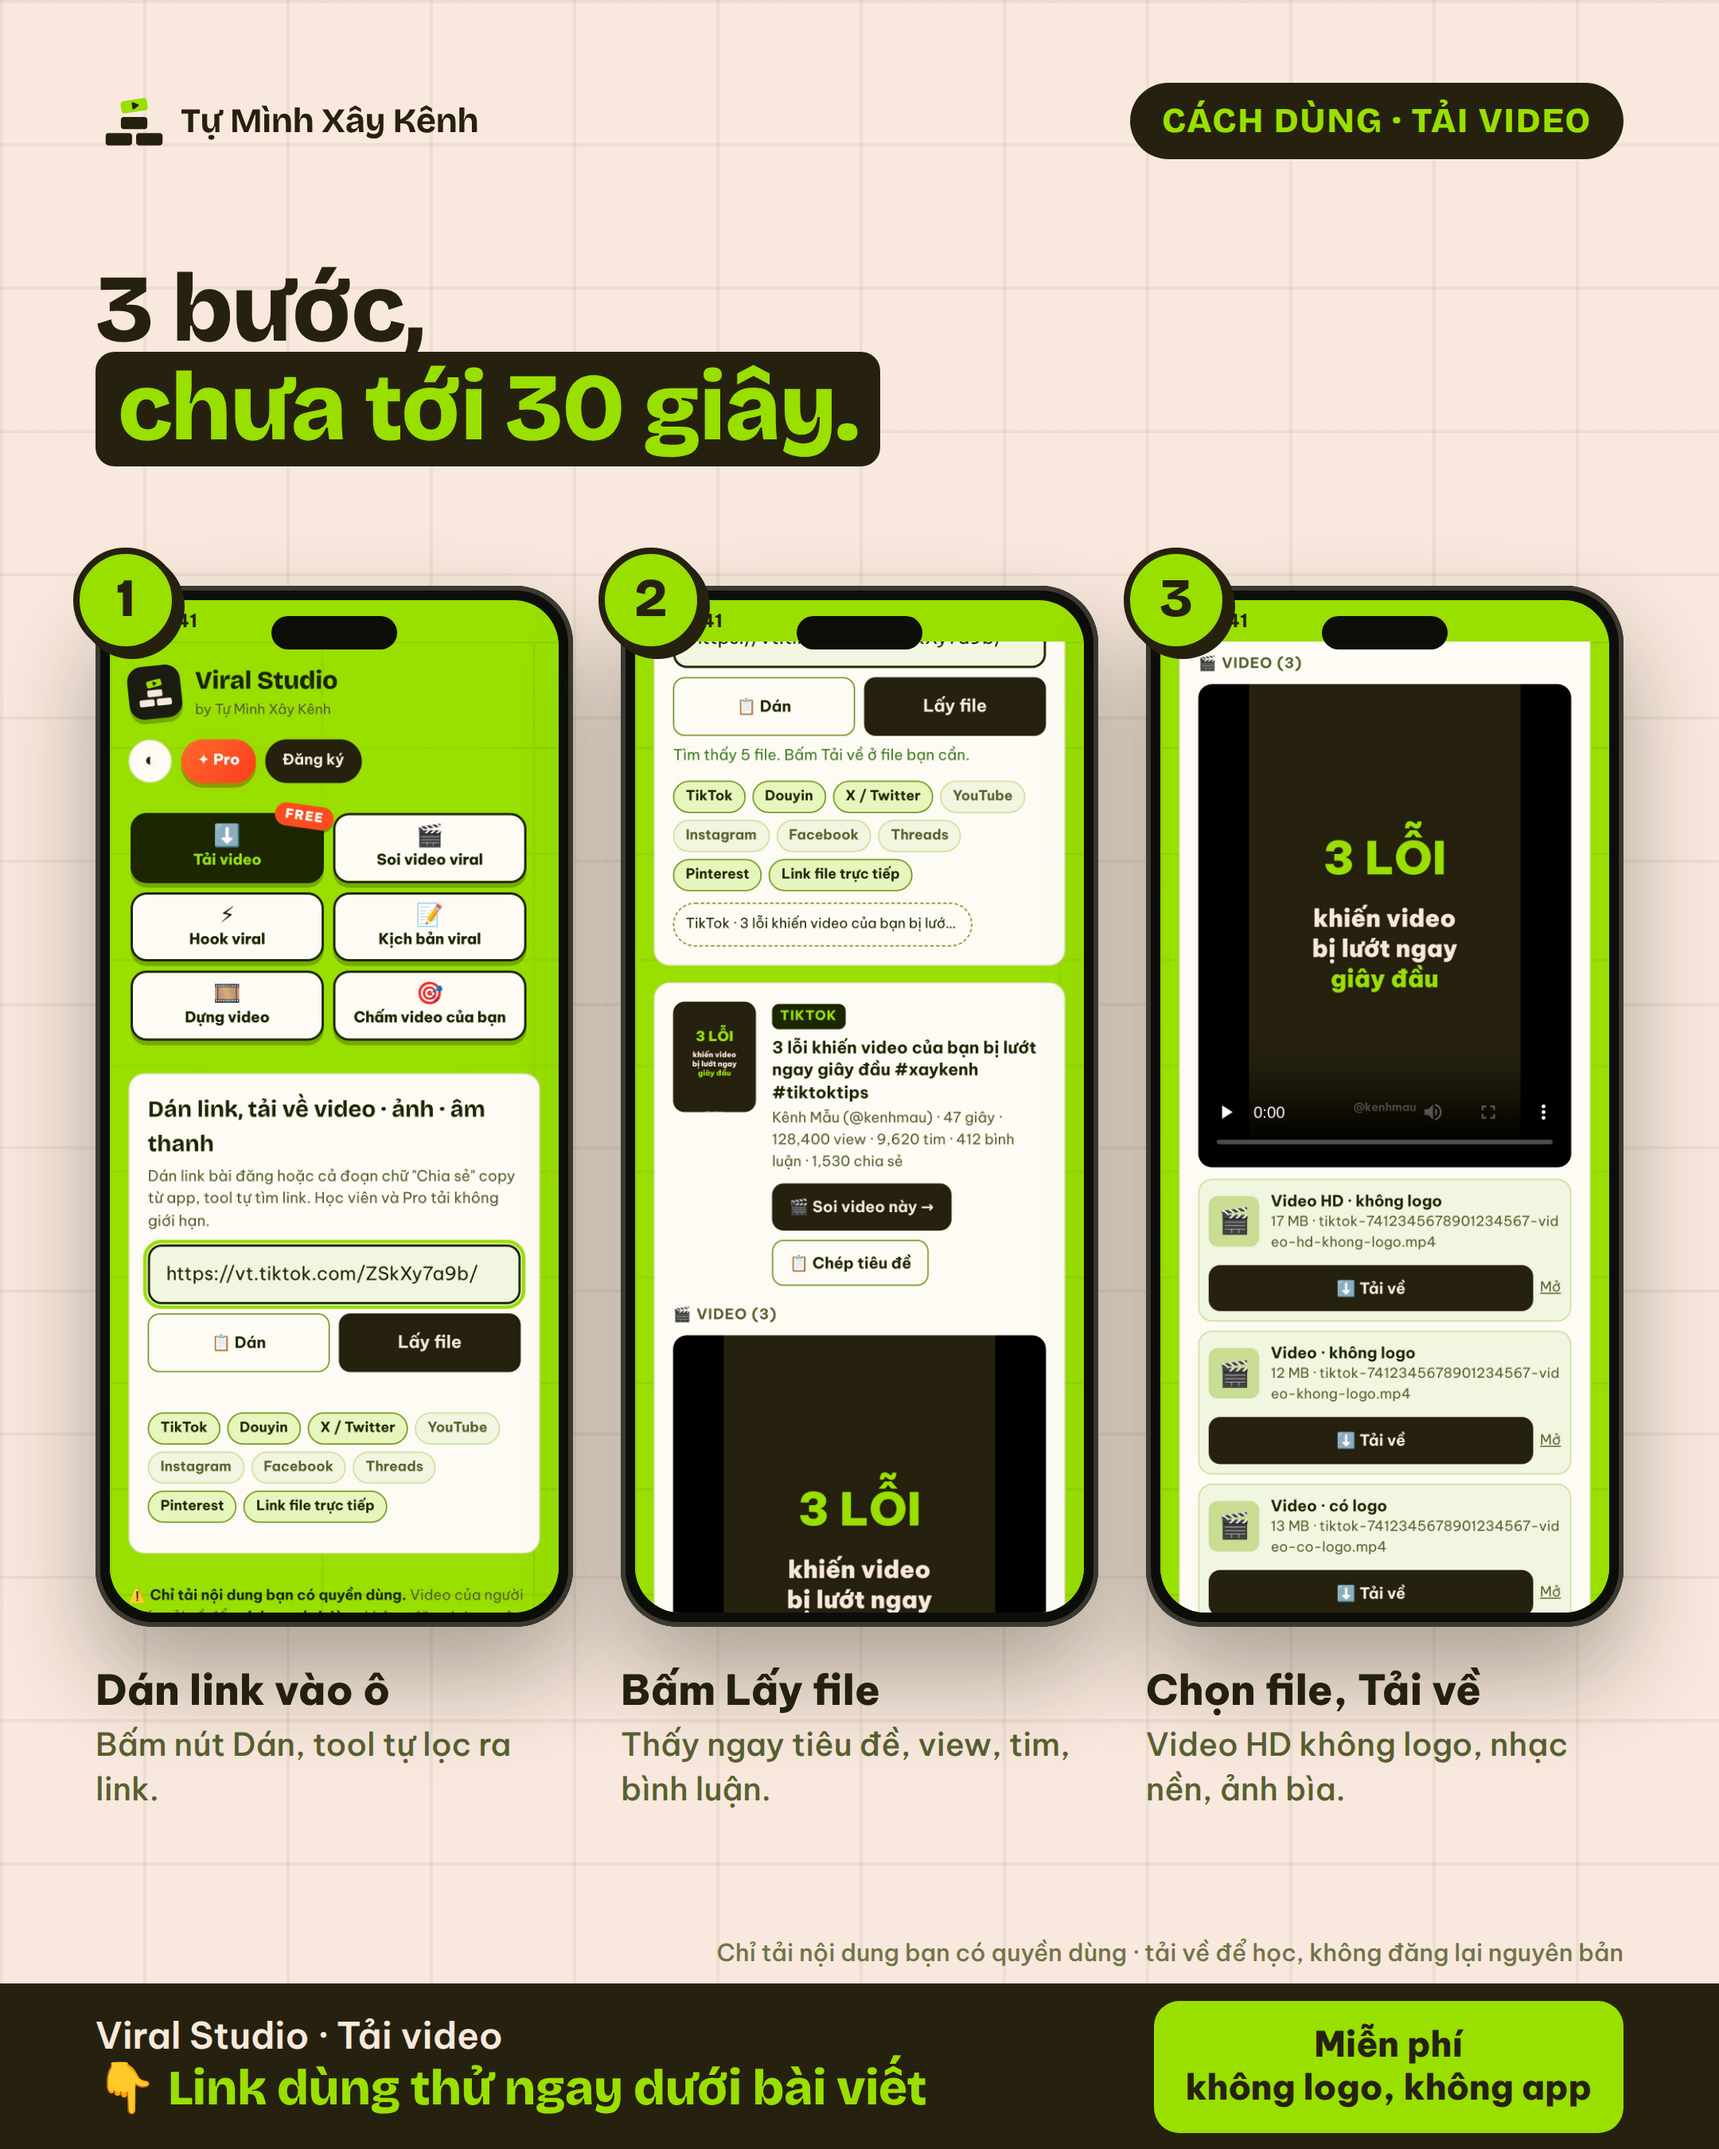
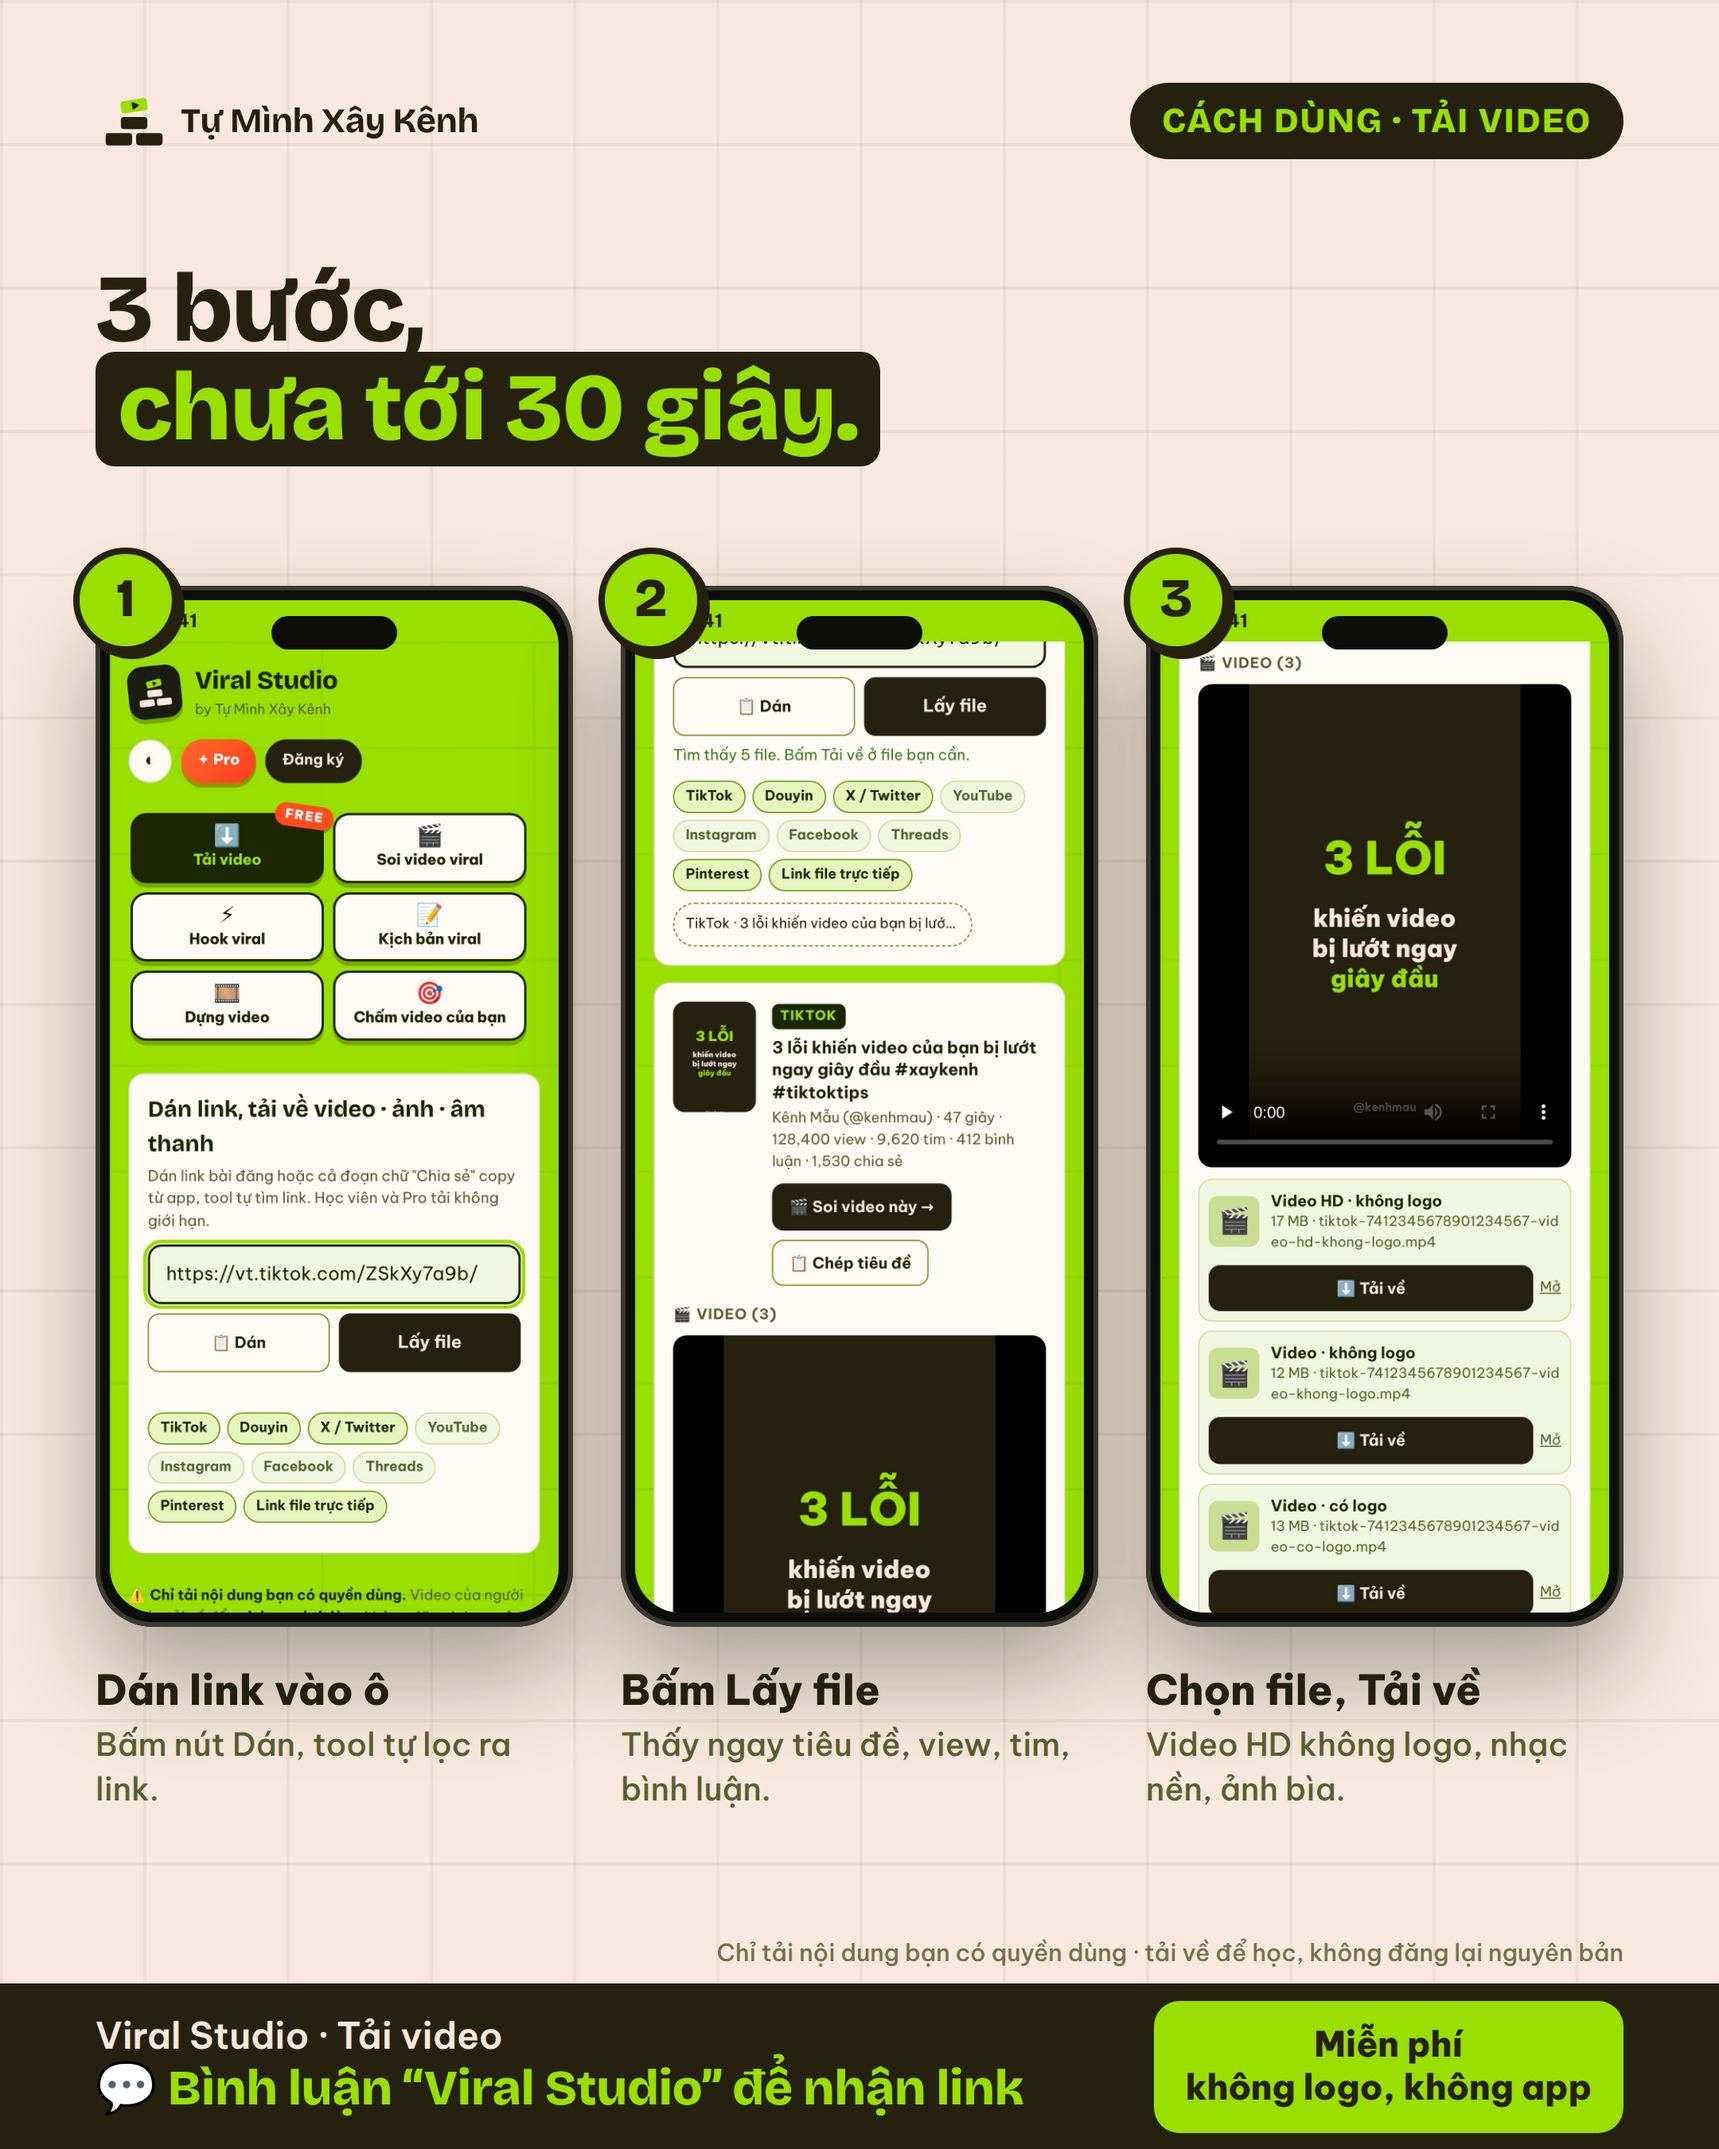
Poster Facebook: caption giọng nói chuyện cho Facebook và Threads, khều bình luận "Viral Studio" để nhận link
Chân 13 poster đổi thành lời mời bình luận, thêm mẫu trả lời bình luận.

Claude-Session: https://claude.ai/code/session_01DLoQkHnYKA1ATrTvxbMQPm

Changed region(s): [[0.062, 0.9333, 0.5894, 0.9956]]

diff --git a/poster-fb/poster.html b/poster-fb/poster.html
@@ -129,7 +129,7 @@
     <div class="o"><i>MỚI</i><div class="anh" style="background-image:url(anh/cv-2.jpg)"></div><div class="chu"><h3>🎯 Chấm video</h3><p>AI xem trọn video bạn làm, chỉ đúng giây đang hỏng.</p></div></div>
   </div>
   <div class="ghichu">Ảnh chụp giao diện thật · dữ liệu minh hoạ</div>
-  <div class="chan"><div class="link">Viral Studio · 6 tool làm video viral<b>👇 Link dùng thử ngay dưới bài viết</b></div><div class="hv">Dùng thử miễn phí<br>không cần cài app</div></div>
+  <div class="chan"><div class="link">Viral Studio · 6 tool làm video viral<b>💬 Bình luận “Viral Studio” để nhận link</b></div><div class="hv">Dùng thử miễn phí<br>không cần cài app</div></div>
 </section>
 
 <!-- ═══════════ 01 · TẢI VIDEO ═══════════ -->
@@ -148,7 +148,7 @@
   </ol>
   <div class="zoom" style="--src:url(anh/tai-3.jpg);--x:30;--y:465;--cw:330;--ch:125;--k:1.5;right:66px;bottom:136px"><em>Không logo</em></div>
   <div class="ghichu">Ảnh chụp giao diện thật · dữ liệu minh hoạ</div>
-  <div class="chan"><div class="link">Viral Studio · Tải video<b>👇 Link dùng thử ngay dưới bài viết</b></div><div class="hv">Miễn phí<br>không logo, không app</div></div>
+  <div class="chan"><div class="link">Viral Studio · Tải video<b>💬 Bình luận “Viral Studio” để nhận link</b></div><div class="hv">Miễn phí<br>không logo, không app</div></div>
 </section>
 
 <section class="poster giay" id="01b-tai-video-cach-dung">
@@ -160,7 +160,7 @@
     <div class="cot"><span class="soto">3</span><div class="dt"><div class="man"><img src="anh/tai-3.jpg" alt=""></div></div><h4>Chọn file, Tải về</h4><p>Video HD không logo, nhạc nền, ảnh bìa.</p></div>
   </div>
   <div class="ghichu" style="top:auto;bottom:116px">Chỉ tải nội dung bạn có quyền dùng · tải về để học, không đăng lại nguyên bản</div>
-  <div class="chan"><div class="link">Viral Studio · Tải video<b>👇 Link dùng thử ngay dưới bài viết</b></div><div class="hv">Miễn phí<br>không logo, không app</div></div>
+  <div class="chan"><div class="link">Viral Studio · Tải video<b>💬 Bình luận “Viral Studio” để nhận link</b></div><div class="hv">Miễn phí<br>không logo, không app</div></div>
 </section>
 
 <!-- ═══════════ 02 · SOI VIDEO VIRAL ═══════════ -->
@@ -179,7 +179,7 @@
   </ol>
   <div class="zoom" style="--src:url(anh/soi-cua3.jpg);--x:0;--y:90;--cw:390;--ch:140;--k:1.28;right:66px;bottom:136px"><em>Khuôn để mượn</em></div>
   <div class="ghichu">Ảnh chụp giao diện thật · dữ liệu minh hoạ</div>
-  <div class="chan"><div class="link">Viral Studio · Soi video viral<b>👇 Link dùng thử ngay dưới bài viết</b></div><div class="hv">Dùng thử AI<br>miễn phí</div></div>
+  <div class="chan"><div class="link">Viral Studio · Soi video viral<b>💬 Bình luận “Viral Studio” để nhận link</b></div><div class="hv">Dùng thử AI<br>miễn phí</div></div>
 </section>
 
 <section class="poster giay" id="02b-soi-video-cach-dung">
@@ -190,7 +190,7 @@
     <div class="cot"><span class="soto">2</span><div class="dt"><div class="man"><img src="anh/soi-2.jpg" alt=""></div></div><h4>Đọc phần tóm tắt</h4><p>Ngách, dạng video, tệp người xem, lời thoại theo giây.</p></div>
     <div class="cot"><span class="soto">3</span><div class="dt"><div class="man"><img src="anh/soi-3.jpg" alt=""></div></div><h4>Mượn khuôn 3 cửa</h4><p>Kèm hook và lời thoại mẫu cho kênh bạn.</p></div>
   </div>
-  <div class="chan"><div class="link">Viral Studio · Soi video viral<b>👇 Link dùng thử ngay dưới bài viết</b></div><div class="hv">Dùng thử AI<br>miễn phí</div></div>
+  <div class="chan"><div class="link">Viral Studio · Soi video viral<b>💬 Bình luận “Viral Studio” để nhận link</b></div><div class="hv">Dùng thử AI<br>miễn phí</div></div>
 </section>
 
 <!-- ═══════════ 03 · HOOK VIRAL ═══════════ -->
@@ -209,7 +209,7 @@
   </ol>
   <div class="zoom" style="--src:url(anh/hook-2.jpg);--x:20;--y:665;--cw:355;--ch:148;--k:1.4;right:66px;bottom:136px"><em>Kéo vào CapCut</em></div>
   <div class="ghichu">Ảnh chụp giao diện thật · dữ liệu minh hoạ</div>
-  <div class="chan"><div class="link">Viral Studio · Hook viral<b>👇 Link dùng thử ngay dưới bài viết</b></div><div class="hv">Dùng thử AI<br>miễn phí</div></div>
+  <div class="chan"><div class="link">Viral Studio · Hook viral<b>💬 Bình luận “Viral Studio” để nhận link</b></div><div class="hv">Dùng thử AI<br>miễn phí</div></div>
 </section>
 
 <section class="poster giay" id="03b-hook-viral-cach-dung">
@@ -220,7 +220,7 @@
     <div class="cot"><span class="soto">2</span><div class="dt"><div class="man"><img src="anh/hook-3.jpg" alt=""></div></div><h4>Bấm Phân tích</h4><p>Điểm hook gốc và 5 bản viết lại. Bấm Dùng để thay.</p></div>
     <div class="cot"><span class="soto">3</span><div class="dt"><div class="man"><img src="anh/hook-2.jpg" alt=""></div></div><h4>Chỉnh chữ, xuất PNG</h4><p>Kéo chữ, đổi bố cục, nhấn màu từ khoá.</p></div>
   </div>
-  <div class="chan"><div class="link">Viral Studio · Hook viral<b>👇 Link dùng thử ngay dưới bài viết</b></div><div class="hv">Dùng thử AI<br>miễn phí</div></div>
+  <div class="chan"><div class="link">Viral Studio · Hook viral<b>💬 Bình luận “Viral Studio” để nhận link</b></div><div class="hv">Dùng thử AI<br>miễn phí</div></div>
 </section>
 
 <!-- ═══════════ 04 · KỊCH BẢN VIRAL ═══════════ -->
@@ -239,7 +239,7 @@
   </ol>
   <div class="zoom" style="--src:url(anh/kb-2.jpg);--x:15;--y:460;--cw:362;--ch:140;--k:1.38;right:66px;bottom:136px"><em>Canh từng giây</em></div>
   <div class="ghichu">Ảnh chụp giao diện thật · dữ liệu minh hoạ</div>
-  <div class="chan"><div class="link">Viral Studio · Kịch bản viral<b>👇 Link dùng thử ngay dưới bài viết</b></div><div class="hv">Dùng thử AI<br>miễn phí</div></div>
+  <div class="chan"><div class="link">Viral Studio · Kịch bản viral<b>💬 Bình luận “Viral Studio” để nhận link</b></div><div class="hv">Dùng thử AI<br>miễn phí</div></div>
 </section>
 
 <section class="poster giay" id="04b-kich-ban-cach-dung">
@@ -250,7 +250,7 @@
     <div class="cot"><span class="soto">2</span><div class="dt"><div class="man"><img src="anh/kb-2.jpg" alt=""></div></div><h4>Viết theo gợi ý</h4><p>Số giây từng phần hiện ngay bên cạnh.</p></div>
     <div class="cot"><span class="soto">3</span><div class="dt"><div class="man"><img src="anh/kb-3.jpg" alt=""></div></div><h4>Bấm Chấm</h4><p>Sửa theo góp ý hoặc để AI viết lại cả bài.</p></div>
   </div>
-  <div class="chan"><div class="link">Viral Studio · Kịch bản viral<b>👇 Link dùng thử ngay dưới bài viết</b></div><div class="hv">Dùng thử AI<br>miễn phí</div></div>
+  <div class="chan"><div class="link">Viral Studio · Kịch bản viral<b>💬 Bình luận “Viral Studio” để nhận link</b></div><div class="hv">Dùng thử AI<br>miễn phí</div></div>
 </section>
 
 <!-- ═══════════ 05 · DỰNG VIDEO ═══════════ -->
@@ -267,7 +267,7 @@
     <li style="padding:16px 18px"><div style="display:flex;gap:12px;align-items:center"><b style="width:44px;height:44px;font-size:24px">2</b><strong style="font-size:23px">Cắt, thêm chữ</strong></div></li>
     <li style="padding:16px 18px"><div style="display:flex;gap:12px;align-items:center"><b style="width:44px;height:44px;font-size:24px">3</b><strong style="font-size:23px">Xuất MP4 · 0đ</strong></div></li>
   </ol>
-  <div class="chan"><div class="link">Viral Studio · Dựng video<b>👇 Link dùng thử ngay dưới bài viết</b></div><div class="hv">0đ · khỏi mua<br>app edit</div></div>
+  <div class="chan"><div class="link">Viral Studio · Dựng video<b>💬 Bình luận “Viral Studio” để nhận link</b></div><div class="hv">0đ · khỏi mua<br>app edit</div></div>
 </section>
 
 <section class="poster giay" id="05b-dung-video-cach-dung">
@@ -279,7 +279,7 @@
     <li style="padding:16px 20px"><b>2</b><div><strong>Thêm chữ, phụ đề, nhạc rồi Xuất MP4</strong><span>Mẫu chữ có sẵn, phụ đề karaoke, hiệu ứng. Muốn nhanh hơn thì nhờ Trợ lý AI dựng giúp.</span></div></li>
   </ol>
   <div class="ghichu" style="top:auto;bottom:116px">Mẹo: mở trên máy tính để dựng thoải mái nhất</div>
-  <div class="chan"><div class="link">Viral Studio · Dựng video<b>👇 Link dùng thử ngay dưới bài viết</b></div><div class="hv">0đ · khỏi mua<br>app edit</div></div>
+  <div class="chan"><div class="link">Viral Studio · Dựng video<b>💬 Bình luận “Viral Studio” để nhận link</b></div><div class="hv">0đ · khỏi mua<br>app edit</div></div>
 </section>
 
 <!-- ═══════════ 06 · CHẤM VIDEO ═══════════ -->
@@ -298,7 +298,7 @@
   </ol>
   <div class="zoom" style="--src:url(anh/cv-3.jpg);--x:15;--y:122;--cw:362;--ch:128;--k:1.32;right:66px;bottom:136px"><em>Lỗi theo từng giây</em></div>
   <div class="ghichu">Ảnh chụp giao diện thật · dữ liệu minh hoạ</div>
-  <div class="chan"><div class="link">Viral Studio · Chấm video của bạn<b>👇 Link dùng thử ngay dưới bài viết</b></div><div class="hv">Dùng thử AI<br>miễn phí</div></div>
+  <div class="chan"><div class="link">Viral Studio · Chấm video của bạn<b>💬 Bình luận “Viral Studio” để nhận link</b></div><div class="hv">Dùng thử AI<br>miễn phí</div></div>
 </section>
 
 <section class="poster giay" id="06b-cham-video-cach-dung">
@@ -309,7 +309,7 @@
     <div class="cot"><span class="soto">2</span><div class="dt"><div class="man"><img src="anh/cv-3.jpg" alt=""></div></div><h4>Xem lỗi theo giây</h4><p>Nặng, vừa, nhẹ, kèm cách sửa cho từng chỗ.</p></div>
     <div class="cot"><span class="soto">3</span><div class="dt"><div class="man"><img src="anh/cv-4.jpg" alt=""></div></div><h4>Lấy 3 kịch bản tiếp</h4><p>Bám đúng kênh bạn, AI viết trọn được luôn.</p></div>
   </div>
-  <div class="chan"><div class="link">Viral Studio · Chấm video của bạn<b>👇 Link dùng thử ngay dưới bài viết</b></div><div class="hv">Dùng thử AI<br>miễn phí</div></div>
+  <div class="chan"><div class="link">Viral Studio · Chấm video của bạn<b>💬 Bình luận “Viral Studio” để nhận link</b></div><div class="hv">Dùng thử AI<br>miễn phí</div></div>
 </section>
 
 </body>
